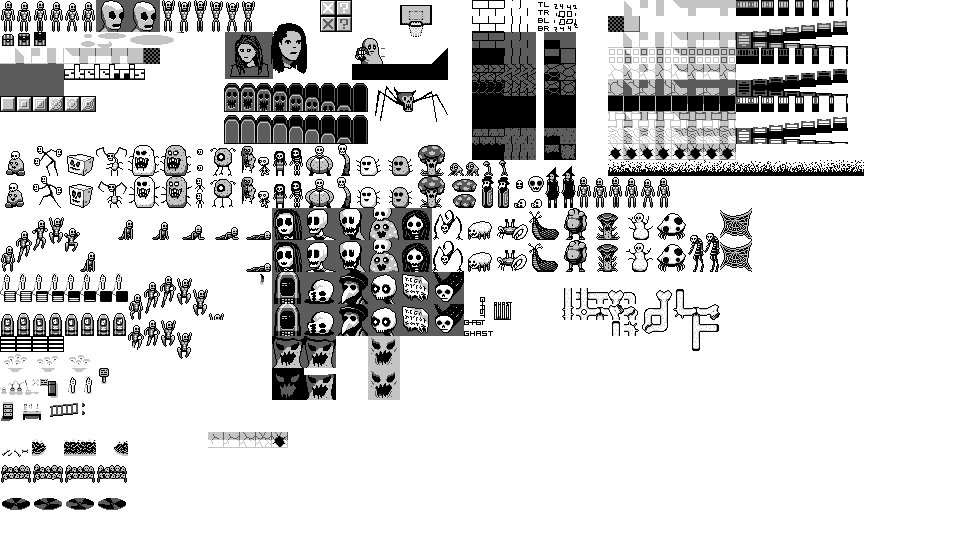
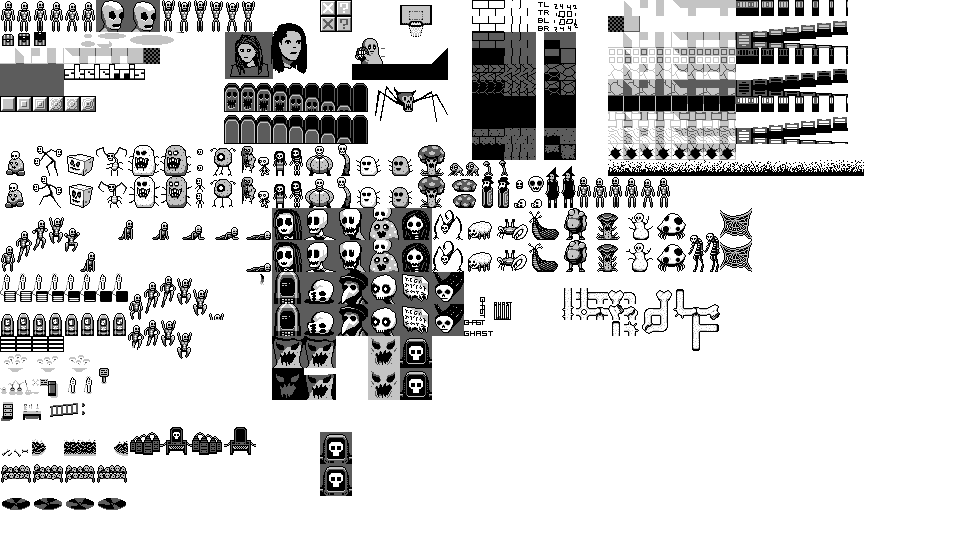
added some new art and dialog for S.K.U.L boss

Changed region(s): [[0.125, 0.7699, 0.375, 0.9239], [0.4062, 0.5851, 0.4688, 0.7391]]

diff --git a/src/game/npc.py b/src/game/npc.py
@@ -1,6 +1,7 @@
 
 from enum import Enum
 import random
+import traceback
 
 import src.game.spriteref as sr
 from src.game.dialog import Dialog, NpcDialog, PlayerDialog
@@ -21,6 +22,7 @@ class NpcID(Enum):
     DOCTOR = "DOCTOR"
     SKELEKID = "SKELEKID"
     HEAD = "HEAD"
+    SKUL = "SKUL"
 
     CAVE_HORROR = "CAVE_HORROR"
 
@@ -128,6 +130,12 @@ class HeadTemplate(NpcTemplate):
         NpcTemplate.__init__(self, NpcID.HEAD, "Disembodied Head", sr.skull_head_all, sr.skull_head_faces, ("h", colors.YELLOW))
 
 
+class SkulTemplate(NpcTemplate):
+
+    def __init__(self):
+        NpcTemplate.__init__(self, NpcID.SKUL, "S.K.U.L", sr.wall_decoration_skul_console_skull, sr.skul_faces, ("S", colors.YELLOW))
+
+
 # TODO - delete? not ever used as an NPC, feels like it shouldn't talk?
 class CaveHorrorNpcTemplate(NpcTemplate):
 
@@ -165,7 +173,9 @@ TEMPLATES = {
 
     NpcID.HEAD: HeadTemplate(),
 
-    NpcID.CAVE_HORROR: CaveHorrorNpcTemplate()  # TODO - not used, it's stupid to have them talk
+    NpcID.CAVE_HORROR: CaveHorrorNpcTemplate(),  # TODO - not used, it's stupid to have them talk
+
+    NpcID.SKUL: SkulTemplate()
 }
 
 
@@ -430,21 +440,53 @@ class ConversationFactory:
             mary_sprites = get_sprites(NpcID.MARY_SKELLY)
             skelekid_sprites = get_sprites(NpcID.SKELEKID)
             grok_sprites = get_sprites(NpcID.GROK)
-            machine_sprites = get_sprites(NpcID.MACHINE)
+            skul_sprites = get_sprites(NpcID.SKUL)
 
-            res_list = [
-                NpcDialog("Wow - that thing would have crushed me with one step. Nice moves back there.", sprites=grok_sprites),
-                NpcDialog("You said it was just a computer! What the hell was that?", sprites=mary_sprites),
-                NpcDialog(">> DEFENSE FORM\n>> Version 3.4.1a", sprites=machine_sprites),
-                NpcDialog("It's still online?! It's listening to us?", sprites=skelekid_sprites),
-                NpcDialog("Who hacked you? Who attacked the city? Why didn't you protect us?", sprites=skelekid_sprites),
-                NpcDialog(">> Running Security Checks....\n" +
-                          ">> Result: 59/59 PASSED\n" +
-                          ">> No illicit activity detected.", sprites=machine_sprites),
-                NpcDialog("Then why didn't you PROTECT us?", sprites=skelekid_sprites),
-                NpcDialog(">> Scanning...\n" +
-                          ">> Result: 98.25% of citizens are protected.", sprites=machine_sprites)
-            ]
+            skul_version = Utils.python_version_string()  # lol
+
+            if interact_count == 0:
+                res_list = [
+                    NpcDialog("Wow - that thing would have crushed me with one step. Nice moves back there.", sprites=grok_sprites),
+                    NpcDialog("You said it was just a computer! What the hell was that?", sprites=mary_sprites),
+                    NpcDialog(">> S.K.U.L DEFENSE FORM\n>> Version {}".format(skul_version), sprites=skul_sprites),
+                    NpcDialog("It's still online?! It's listening to us?", sprites=skelekid_sprites),
+                    NpcDialog("Who hacked you? Who attacked the city? Why didn't you protect us?", sprites=skelekid_sprites),
+                    NpcDialog(">> Running Security Checks....\n" +
+                              ">> Result: 59/59 PASSED\n" +
+                              ">> No illicit activity detected.", sprites=skul_sprites),
+                    NpcDialog("Then why didn't you PROTECT us?", sprites=skelekid_sprites),
+                    NpcDialog(">> Scanning...\n" +
+                              ">> 96.25% of citizens are protected.", sprites=skul_sprites),
+                    NpcDialog("It thinks they're protected? But no one is even here.", sprites=mary_sprites),
+                    NpcDialog("Computer, where is everyone?", sprites=grok_sprites),
+                    NpcDialog(">> Skeletris Catacombs", sprites=skul_sprites),
+                    NpcDialog("The catacombs? That's where the city's fungus reserves are kept. Why would it move everyone down there?", sprites=grok_sprites),
+                    NpcDialog("Maybe it malfunctioned?", sprites=mary_sprites),
+                    NpcDialog("Stupid machine! Why did you move everyone down there? You destroyed the city!", sprites=skelekid_sprites),
+                    NpcDialog(">> Citizens were moved to satisfy the PRIMARY GOALS.", sprites=skul_sprites),
+                    NpcDialog("What are the primary goals?", sprites=mary_sprites),
+                    NpcDialog(">> 1. Protect Citizens from Harm\n" +
+                              ">> 2. Maintain Order and Justice\n" +
+                              ">> 3. Increase Gross Assets of Skeletris"),
+                    NpcDialog("Those seem... reasonable?", sprites=skelekid_sprites),
+                    NpcDialog("I wonder... computer, how have the city's gross assets changed over the past eight cycles?", sprites=mary_sprites),
+                    NpcDialog(">> Cycle 1532: +3.9%\n" +
+                              ">> Cycle 1533: +4.2%\n" +
+                              ">> Cycle 1534: +3.7%\n" +
+                              ">> Cycle 1535: +3.9%", sprites=skul_sprites),
+                    NpcDialog(">> Cycle 1536: +45,023.2%\n" +
+                              ">> Cycle 1537: +113,003,203.3%\n" +
+                              ">> Cycle 1538: +5.2%\n" +
+                              ">> Cycle 1539: +4.9%", sprites=skul_sprites),
+                    NpcDialog("Those numbers are impossible. Mushrooms don't grow that fast.", sprites=grok_sprites),
+                    NpcDialog("It was... raising revenue? Those spikes happened immediately before and during the attacks.", sprites=mary_sprites),
+                    NpcDialog("So it did malfunction?! How could our leaders let this happen?", sprites=skelekid_sprites),
+                    NpcDialog("Let's search the catacombs. If the computer is telling the truth that's where everyone is being held.", sprites=mary_sprites),
+                ]
+            else:
+                res_list = [
+                    NpcDialog("We should search the catacombs.", sprites=mary_sprites),
+                ]
 
         if conv == Conversations.MACHINE_INTRO:
             if interact_count == 0:

diff --git a/src/game/spriteref.py b/src/game/spriteref.py
@@ -495,6 +495,11 @@ wall_decoration_bone_pile_right = [make(96, 432, 32, 24, and_add_to_list=large_d
 wall_decoration_skull_racks = [make(i * 32, 464, 32, 24, and_add_to_list=large_decs) for i in range(0, 4)]
 wall_decoration_fans = [make(i * 32, 496, 32, 24, and_add_to_list=large_decs) for i in range(0, 4)]
 
+wall_decoration_skul_console_left = make(128, 432, 32, 24, and_add_to_list=large_decs)
+wall_decoration_skul_console_skull = make(160, 416, 32, 40, and_add_to_list=large_decs)
+wall_decoration_skul_console_right = make(192, 432, 32, 24, and_add_to_list=large_decs)
+wall_decoration_skul_console_empty = make(224, 416, 32, 40, and_add_to_list=large_decs)
+
 smol_decs = []
 wall_decoration_bucket = make(0, 384, 8, 16, and_add_to_list=smol_decs)
 wall_decoration_plants = [make(8, 376, 8, 24, and_add_to_list=smol_decs),
@@ -569,6 +574,7 @@ save_station_faces = [make(272, 272 + i*32, 32, 32) for i in range(0, 2)]
 
 sign_faces = [make(400, 272 + i * 32, 32, 32) for i in range(0, 2)]
 cave_horror_faces = [make(368, 336 + i * 32, 32, 32) for i in range(0, 2)]
+skul_faces = [make(400, 336 + i * 32, 32, 32) for i in range(0, 2)]
 
 
 def get_item_entity_sprite(cubes):

diff --git a/src/utils/util.py b/src/utils/util.py
@@ -2,9 +2,9 @@ import math
 import random
 import os
 import json
-import sys
 import numbers
 import pathlib
+import sys
 
 import pygame
 
@@ -404,4 +404,12 @@ class Utils:
                 return mapper(json_blob[key])
             except ValueError:
                 return default
+
+    @staticmethod
+    def python_version_string():
+        major = sys.version_info[0]
+        minor = sys.version_info[1]
+        patch = sys.version_info[2]
+        return "{}.{}.{}".format(major, minor, patch)
+
 
